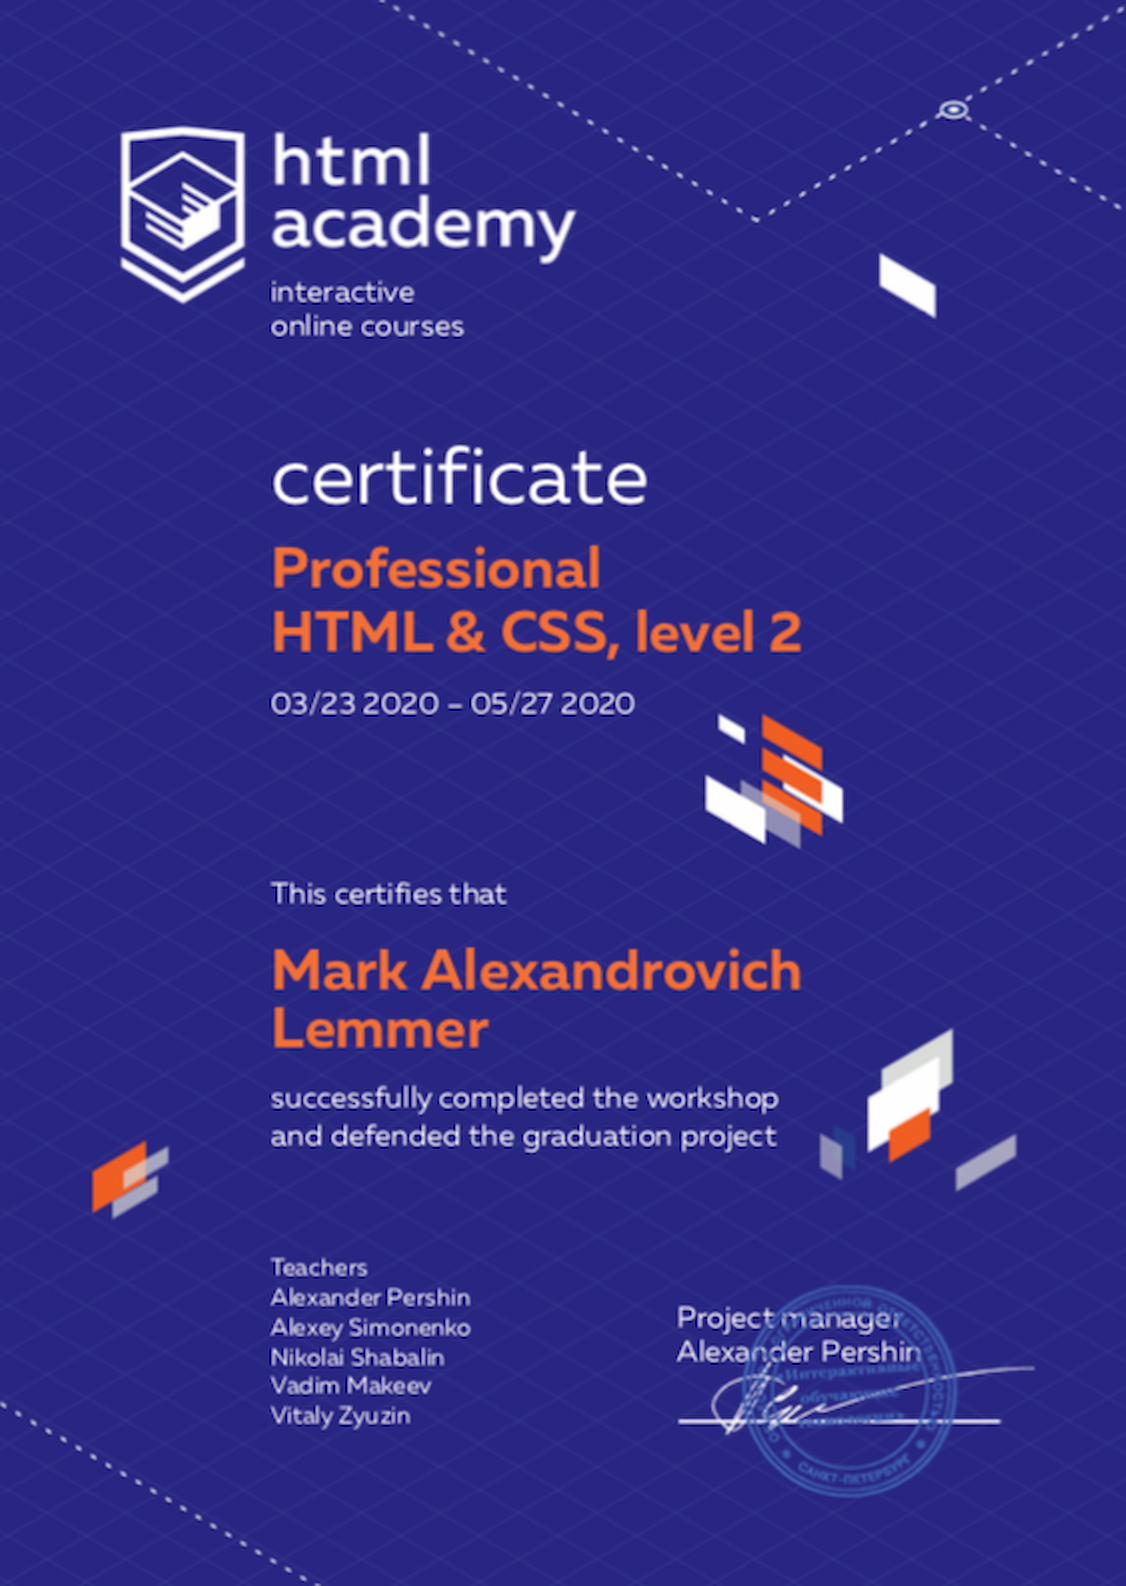
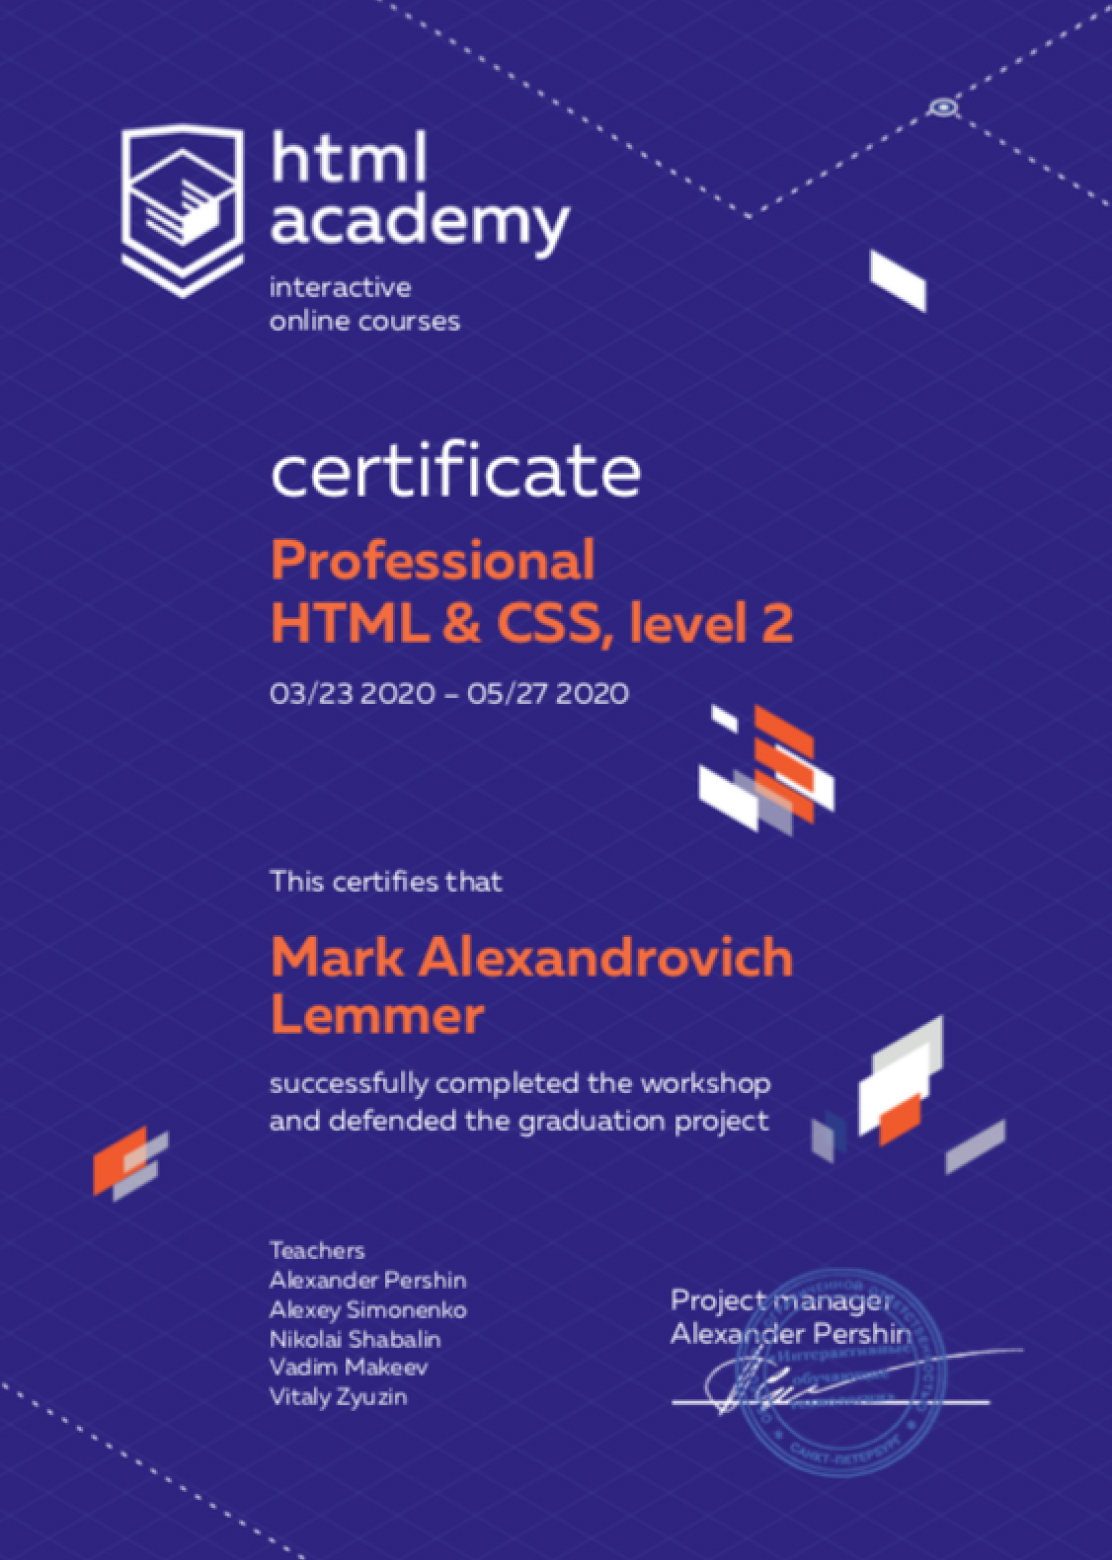
Updates

diff --git a/css/styles.min.css b/css/styles.min.css
@@ -1,2 +1,2 @@
-@font-face{font-family:"Source Sans Pro";font-weight:400;font-style:normal;font-display:swap;src:url(../fonts/source-sans-pro/400.woff2) format("woff2"),url(../fonts/source-sans-pro/400.woff) format("woff")}@font-face{font-family:"Source Sans Pro";font-weight:600;font-style:normal;font-display:swap;src:url(../fonts/source-sans-pro/600.woff2) format("woff2"),url(../fonts/source-sans-pro/600.woff) format("woff")}html{-webkit-box-sizing:border-box;box-sizing:border-box}*{-webkit-box-sizing:inherit;box-sizing:inherit;margin:0;padding:0}::before ::after{margin:inherit;padding:inherit}body{color:#0c0c0d;font-family:"Source Sans Pro",sans-serif;font-size:14px;line-height:20px;font-weight:400;background-color:#fff;margin:0 auto;padding-left:20px;padding-right:20px;min-height:100vh;max-width:1440px}.sitemap{display:block;margin:0 auto}.sitemap .map__wrapper{background-color:gray;border-radius:8px}.sitemap .map__link{color:#fff;font-size:1.5em;line-height:2.5em}a{text-decoration:none}img{display:block;max-width:100%;height:auto}picture{display:-webkit-box;display:flex}.visually-hidden{position:absolute;width:1px;height:1px;margin:-1px;border:0;padding:0;white-space:nowrap;-webkit-clip-path:inset(100%);clip-path:inset(100%);clip:rect(0 0 0 0);overflow:hidden}.map__wrapper{padding:20px}.certificates__container ul,.map__list{margin:0;padding:0;list-style-type:none}.map__link{color:#000;font-size:18px;line-height:1.3;text-decoration:none}@media (min-width:480px){.map__wrapper{padding:30px}.map__link{font-size:22px;line-height:1.4}}@media (min-width:560px){.map__wrapper{padding:40px}.map__link{font-size:22px}}@media (min-width:640px){.map__wrapper{padding:40px}.map__link{font-size:24px;line-height:1.5}}@media (min-width:760px){.map__wrapper{padding:40px}.map__link{font-size:26px;line-height:1.6}}@media (min-width:1024px){.map__wrapper{padding:50px}.map__link{font-size:28px}}.certificates__container{margin:50px 0}.certificates__container h1{margin-bottom:50px;font-size:36px;color:#000}.certificates__container ul{display:grid;grid-template-columns:repeat(auto-fit,minmax(300px,1fr));-webkit-box-align:start;align-items:start;justify-items:center;gap:80px 20px}.certificates__container picture{margin-bottom:10px}.certificates__container img{width:100%}.certificates__container h2{color:#000;margin-bottom:10px;min-height:40px}.certificates__container span{color:#000;font-size:11px;text-decoration:underline}
+@font-face{font-family:"Source Sans Pro";font-weight:400;font-style:normal;font-display:swap;src:url(../fonts/source-sans-pro/400.woff2) format("woff2"),url(../fonts/source-sans-pro/400.woff) format("woff")}@font-face{font-family:"Source Sans Pro";font-weight:600;font-style:normal;font-display:swap;src:url(../fonts/source-sans-pro/600.woff2) format("woff2"),url(../fonts/source-sans-pro/600.woff) format("woff")}html{-webkit-box-sizing:border-box;box-sizing:border-box}*{-webkit-box-sizing:inherit;box-sizing:inherit;margin:0;padding:0}::before ::after{margin:inherit;padding:inherit}body{color:#0c0c0d;font-family:"Source Sans Pro",sans-serif;font-size:14px;line-height:20px;font-weight:400;background-color:#fff;margin:0 auto;padding-left:20px;padding-right:20px;min-height:100vh;max-width:1440px}.sitemap{display:block;margin:0 auto}.sitemap .map__wrapper{background-color:gray;border-radius:8px}.sitemap .map__link{color:#fff;font-size:1.5em;line-height:2.5em}a{text-decoration:none}img{display:block;max-width:100%;height:auto}picture{display:-webkit-box;display:flex}.visually-hidden{position:absolute;width:1px;height:1px;margin:-1px;border:0;padding:0;white-space:nowrap;-webkit-clip-path:inset(100%);clip-path:inset(100%);clip:rect(0 0 0 0);overflow:hidden}.map__wrapper{padding:20px}.certificates__container ul,.map__list{margin:0;padding:0;list-style-type:none}.map__link{color:#000;font-size:18px;line-height:1.3;text-decoration:none}@media (min-width:480px){.map__wrapper{padding:30px}.map__link{font-size:22px;line-height:1.4}}@media (min-width:560px){.map__wrapper{padding:40px}.map__link{font-size:22px}}@media (min-width:640px){.map__wrapper{padding:40px}.map__link{font-size:24px;line-height:1.5}}@media (min-width:760px){.map__wrapper{padding:40px}.map__link{font-size:26px;line-height:1.6}}@media (min-width:1024px){.map__wrapper{padding:50px}.map__link{font-size:28px}}.certificates__container{margin:50px 0}.certificates__container h1{margin-bottom:50px;font-size:36px;color:#000}.certificates__container ul{display:grid;grid-template-columns:repeat(auto-fit,minmax(300px,1fr));-webkit-box-align:start;align-items:start;justify-items:center;gap:80px 20px}.certificates__container picture{margin-bottom:10px}.certificates__container img{width:100%;-o-object-fit:cover;object-fit:cover}.certificates__container h2{color:#000;margin-bottom:10px;min-height:40px}.certificates__container span{color:#000;font-size:11px;text-decoration:underline}
 /*# sourceMappingURL=styles.min.css.map */

diff --git a/css/styles.css b/css/styles.css
@@ -174,6 +174,8 @@ picture {
 }
 .certificates__container img {
   width: 100%;
+  -o-object-fit: cover;
+     object-fit: cover;
 }
 .certificates__container h2 {
   color: #000;
